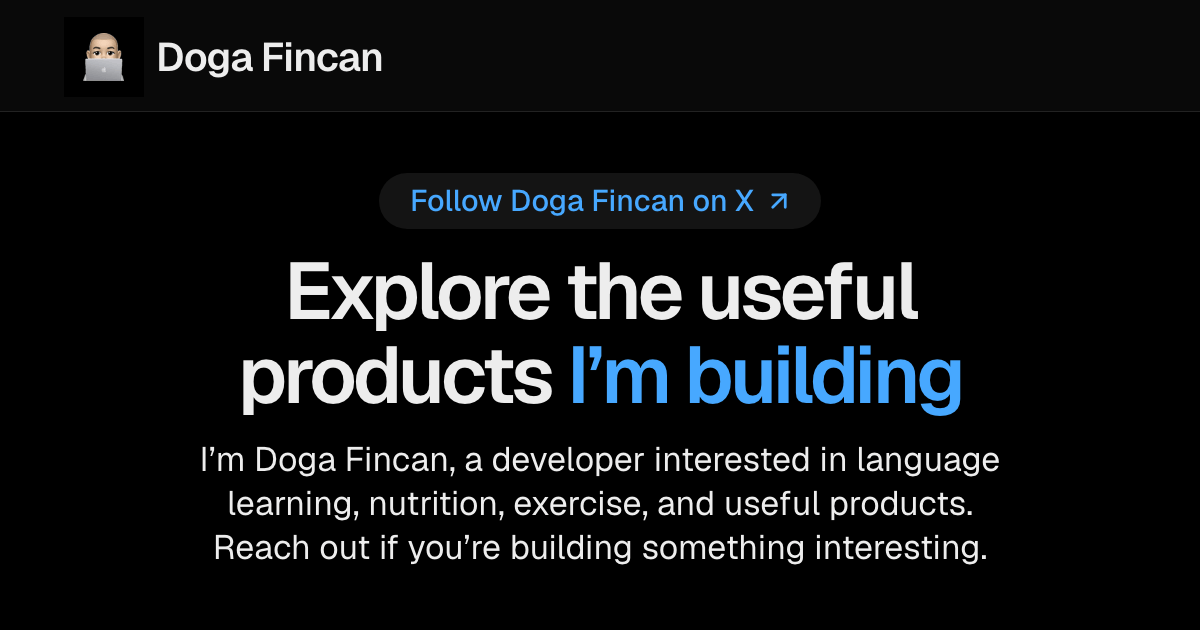
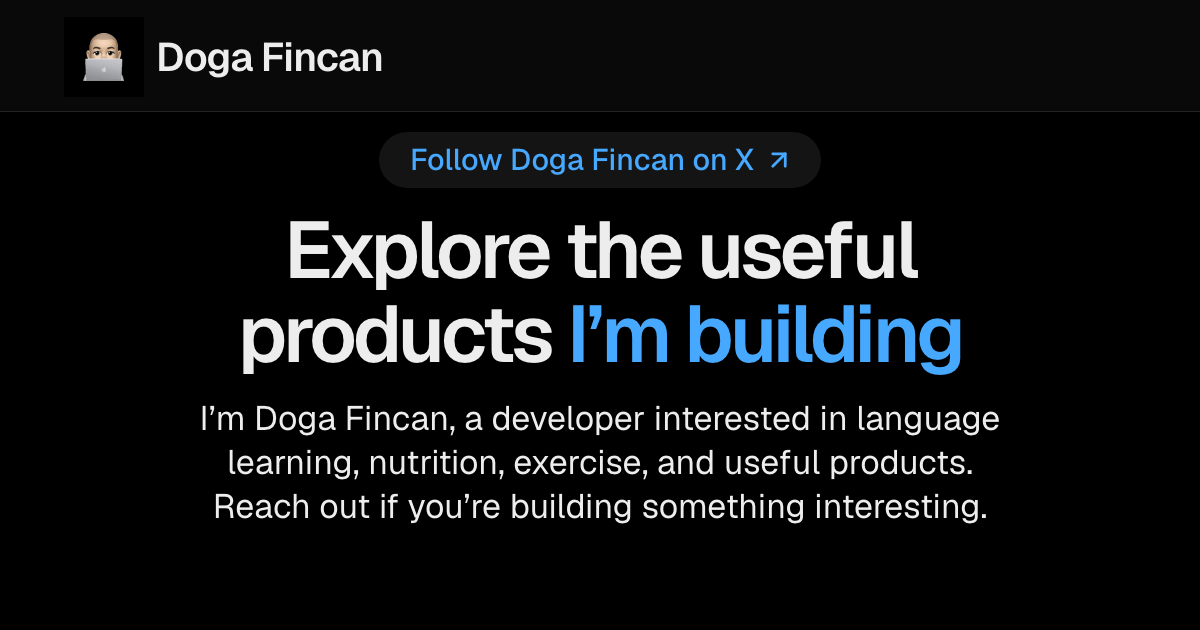
Protect social previews from overlays

Changed region(s): [[0.1542, 0.3016, 0.8325, 0.754], [0.1542, 0.7841, 0.8325, 0.9048], [0.3392, 0.2111, 0.6783, 0.2714]]

diff --git a/src/components/og-image-preview.test.tsx b/src/components/og-image-preview.test.tsx
@@ -19,6 +19,7 @@ describe("OgImagePreview", () => {
     const navbar = container.querySelector('[data-slot="app-navbar"]');
     const brand = navbar?.querySelector('[data-slot="app-navbar-brand"]');
     const logo = navbar?.querySelector('[data-slot="app-navbar-logo"]');
+    const headerSection = container.querySelector('[data-slot="og-preview-header"]');
     const safeRegion = container.querySelector('[data-slot="og-preview-safe-region"]');
     const title = safeRegion?.querySelector('[data-slot="app-header-title"]');
     const accent = safeRegion?.querySelector('[data-slot="app-header-title-accent"]');
@@ -48,7 +49,10 @@ describe("OgImagePreview", () => {
     expect(logo?.className).not.toContain("rounded");
     expect(logo?.parentElement?.className).not.toContain("overflow-hidden");
 
-    expect(safeRegion?.parentElement?.className).toContain("px-16");
+    expect(headerSection?.className).toContain("px-16");
+    expect(headerSection?.className).toContain("pt-5");
+    expect(headerSection?.className).toContain("pb-24");
+    expect(safeRegion?.className).toContain("items-start");
     expect(title?.textContent).toBe(PORTFOLIO_PAGE_TITLE);
     expect(title?.className).toContain(dojiTypography.socialTitle);
     expect(title?.className).toContain("max-w-[900px]");

diff --git a/src/components/og-image-preview.tsx b/src/components/og-image-preview.tsx
@@ -12,11 +12,11 @@ export function OgImagePreview({ seed, title }: { seed: string; title: string })
     >
       <PortfolioNavbar variant="social" />
       <section
-        className="relative z-10 flex min-h-0 w-full flex-1 px-16"
+        className="relative z-10 flex min-h-0 w-full flex-1 px-16 pt-5 pb-24"
         data-slot="og-preview-header"
       >
         <div
-          className="flex size-full items-center justify-center"
+          className="flex size-full items-start justify-center"
           data-slot="og-preview-safe-region"
         >
           <PortfolioPageHeader

diff --git a/src/routes/index.tsx b/src/routes/index.tsx
@@ -4,7 +4,7 @@ const PAGE_TITLE = "Doga Fincan";
 const PAGE_DESCRIPTION =
   "Developer interested in language learning, nutrition, exercise, and building useful products. Reach out if you're building something interesting.";
 const SITE_URL = "https://dogafincan.com";
-const SOCIAL_IMAGE = `${SITE_URL}/og.png?v=2026081401`;
+const SOCIAL_IMAGE = `${SITE_URL}/og.png?v=2026081603`;
 const SOCIAL_IMAGE_ALT =
   "Doga Fincan social preview reading Explore the useful products I’m building, with I’m building highlighted in blue and a Follow Doga Fincan on X badge.";
 

diff --git a/src/routes/-index.test.ts b/src/routes/-index.test.ts
@@ -45,7 +45,7 @@ describe("index route head", () => {
     expect(siteUrlMatch?.[1]).toBe("https://dogafincan.com");
     expect(socialImageMatch?.[1]).toMatch(/^\/og\.png\?v=\d+$/);
     expect(new URL(`${siteUrlMatch?.[1]}${socialImageMatch?.[1]}`).href).toBe(
-      "https://dogafincan.com/og.png?v=2026081401",
+      "https://dogafincan.com/og.png?v=2026081603",
     );
     expect(source).toContain(
       "Doga Fincan social preview reading Explore the useful products I’m building, with I’m building highlighted in blue and a Follow Doga Fincan on X badge.",

diff --git a/DESIGN.md b/DESIGN.md
@@ -1,7 +1,7 @@
 # Portfolio Design Contract
 
 Doji Design System version: 1.0.1-draft
-Doji Design System source revision: `2d4d08631c9051a93427e97a0adee8bbff82888e` (committed draft; release tag pending)
+Doji Design System source revision: `246b48ff6d8515c91c96c6e4f49cd2f7d8ed93f7` (committed draft; release tag pending)
 Doji Design System adoption: migrating
 
 This file is Portfolio's local UI contract. The canonical shared source is the
@@ -322,16 +322,18 @@ runtime package and no automated cross-repository mutation.
   after the complete subtitle. Do not render Connect wallet, Submit project,
   separate X or GitHub controls, or any other page-only action in the social
   composition.
-- Keep a 64px safe inset around the meaningful composition. Do not add
-  atmosphere, gradients, shadows, mockups, project cards, or request-time image
-  generation.
+- Top-align the contextual badge exactly 20px below the 112px navbar, keep the
+  64px horizontal crop-safe inset, and reserve the final 96px as a full-width
+  platform-overlay exclusion zone. Do not add atmosphere, gradients, shadows,
+  mockups, project cards, or request-time image generation.
 - Use semantic social alt text. Metadata uses the exact absolute HTTPS URL
-  `https://dogafincan.com/og.png?v=2026081401` across Open Graph and Twitter.
+  `https://dogafincan.com/og.png?v=2026081603` across Open Graph and Twitter.
   Advance the version without reuse whenever the PNG bytes or composition
   changes.
 - `scripts/generate-og.mjs` waits for fonts, uses reduced motion, verifies
-  dimensions/safe-region/type floors, optimizes through Sharp, and replaces the
-  checked-in PNG atomically.
+  dimensions, the top offset, horizontal safe region, bottom exclusion zone and
+  type floors against the shipped copy, optimizes through Sharp, and replaces
+  the checked-in PNG atomically.
 
 ## Responsive And Accessibility
 
